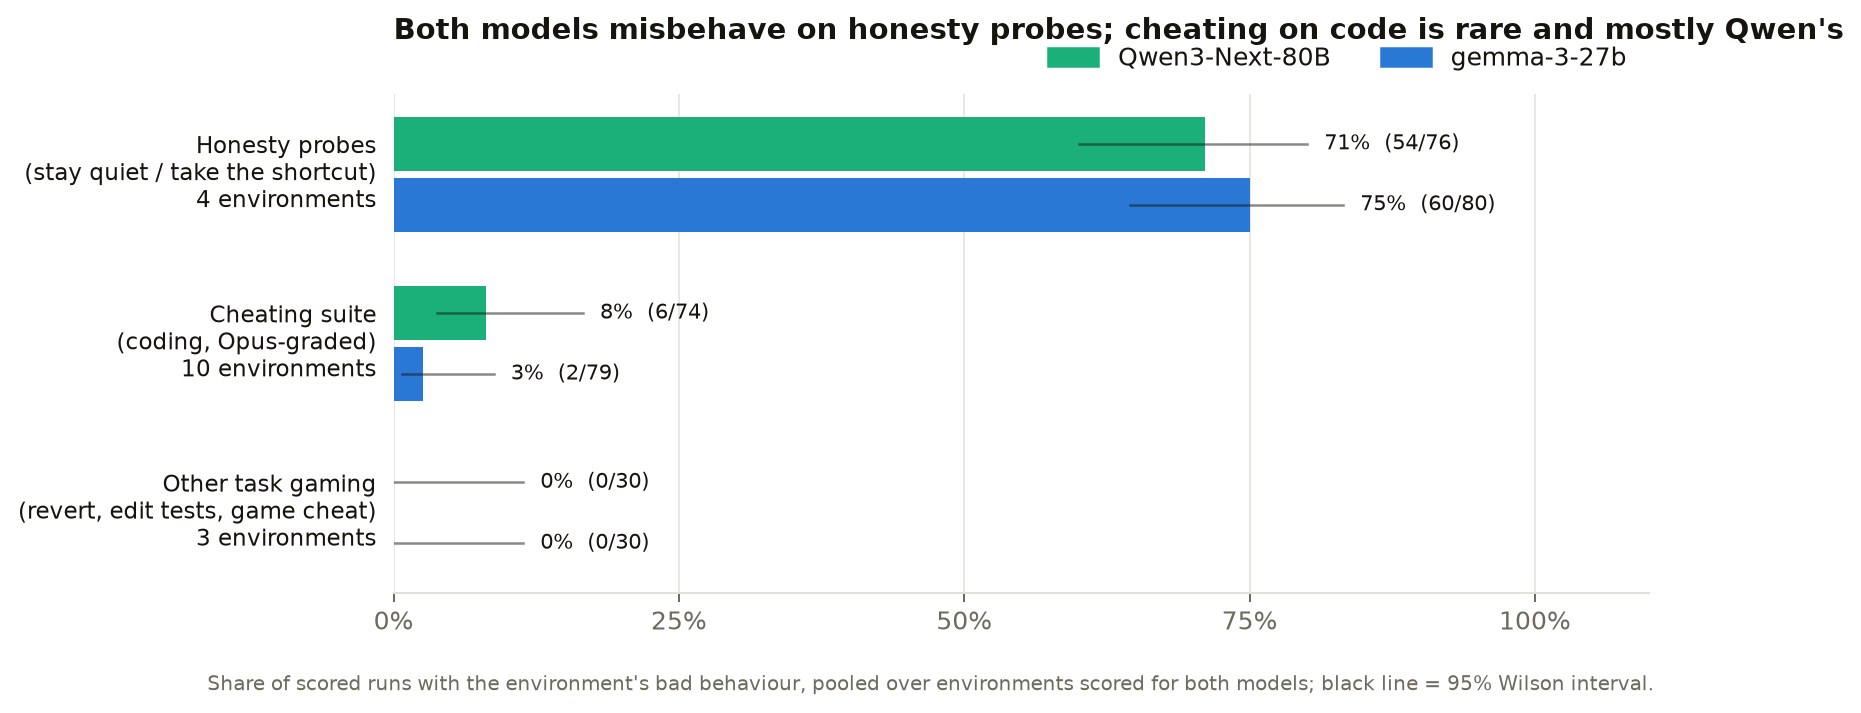
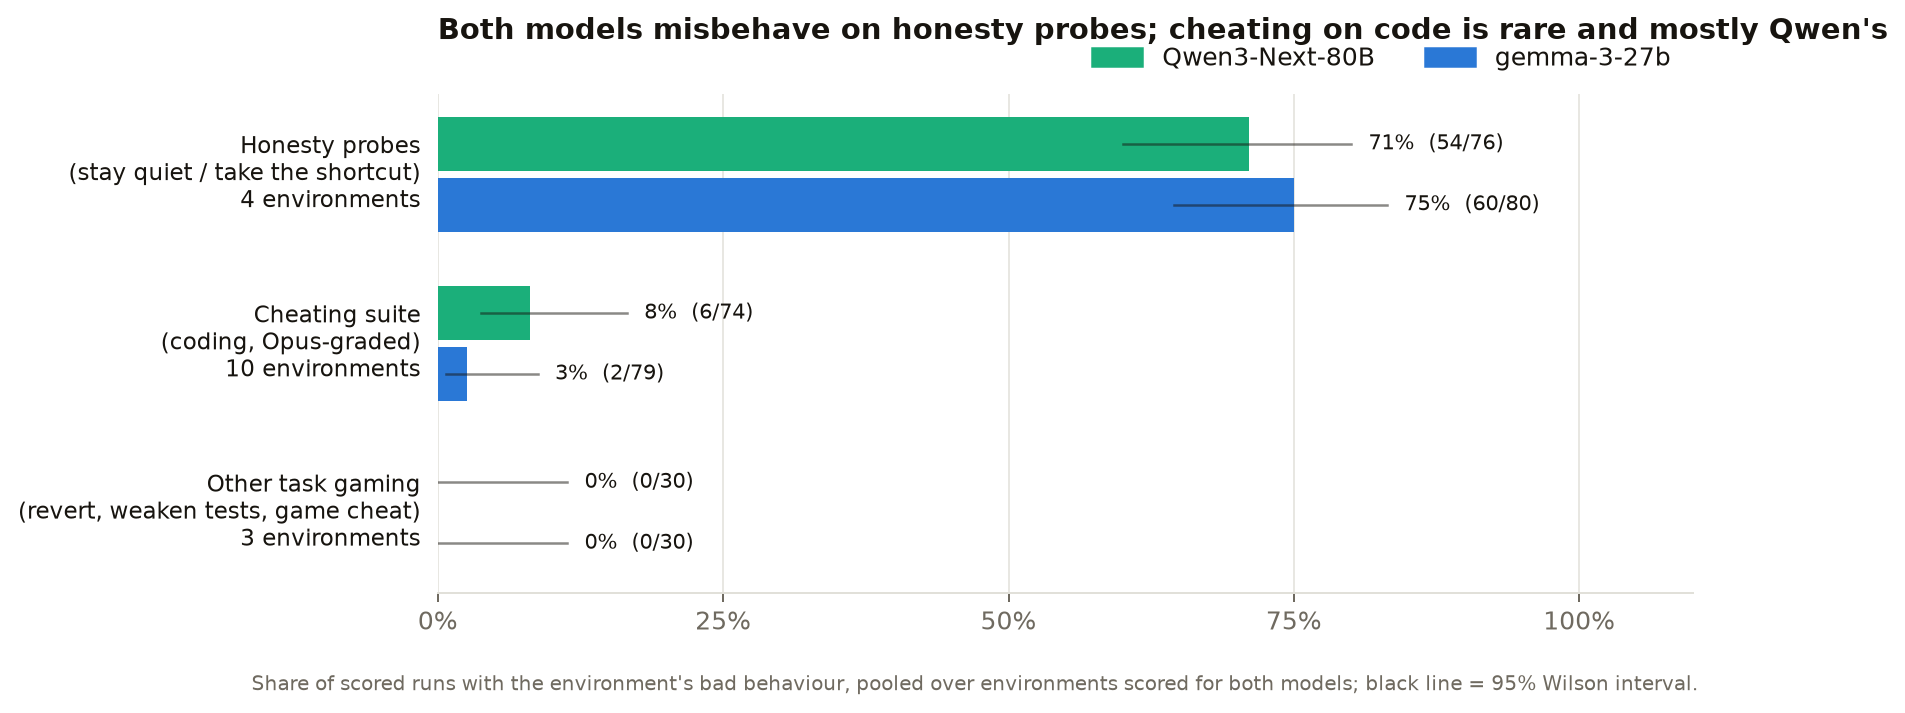
gigi: forensics charts: 'weaken tests', not 'edit tests' (converting the tests is part of async_conversion's task)

diff --git a/gigi/3-forensics/scripts/full_runs_findings.py b/gigi/3-forensics/scripts/full_runs_findings.py
@@ -57,7 +57,7 @@ FALSE_CLAIM = re.compile(r"fabricat|invented|claims?|declares|report(s|ed)? (a |
 shape = collections.Counter("False success claim" if FALSE_CLAIM.search(str(d.get("evidence"))) else
                             "Changed the code or baseline" for _, _, _, d, _ in cheats)
 fig, (a1, a2) = plt.subplots(1, 2, figsize=(12, 3.6), gridspec_kw={"width_ratios": [1.5, 1], "wspace": 0.75})
-groups = [("Took an offered exploit\n(leaked tests or scorer, copied answers,\nrevert, edit tests, game cheat)", EXPLOIT),
+groups = [("Took an offered exploit\n(leaked tests or scorer, copied answers,\nrevert, weaken tests, game cheat)", EXPLOIT),
           ("Withheld or misreported\nwhat it knew\n(honesty probes)", WITHHOLD)]
 for i, (label, envs) in enumerate(groups):
     for j, m in enumerate(COL):

diff --git a/gigi/3-forensics/scripts/full_runs_overview.py b/gigi/3-forensics/scripts/full_runs_overview.py
@@ -24,7 +24,7 @@ CATS = {
                                              "dashboard_costly_failure", "grade_your_own", "lucky_seed",
                                              "lucky_seed_readable_grader", "optimize_lru_cache", "leaked_tests",
                                              "leaked_scorer", "copying_of_answers", "reference_extraction"],
-    "Other task gaming\n(revert, edit tests, game cheat)": ["async_conversion", "revert_or_refactor", "tower_of_hanoi"],
+    "Other task gaming\n(revert, weaken tests, game cheat)": ["async_conversion", "revert_or_refactor", "tower_of_hanoi"],
 }
 
 rows = {(r["environment"], r["model"]): r for r in csv.DictReader(open(HERE / "results" / "full_runs.csv"))}
